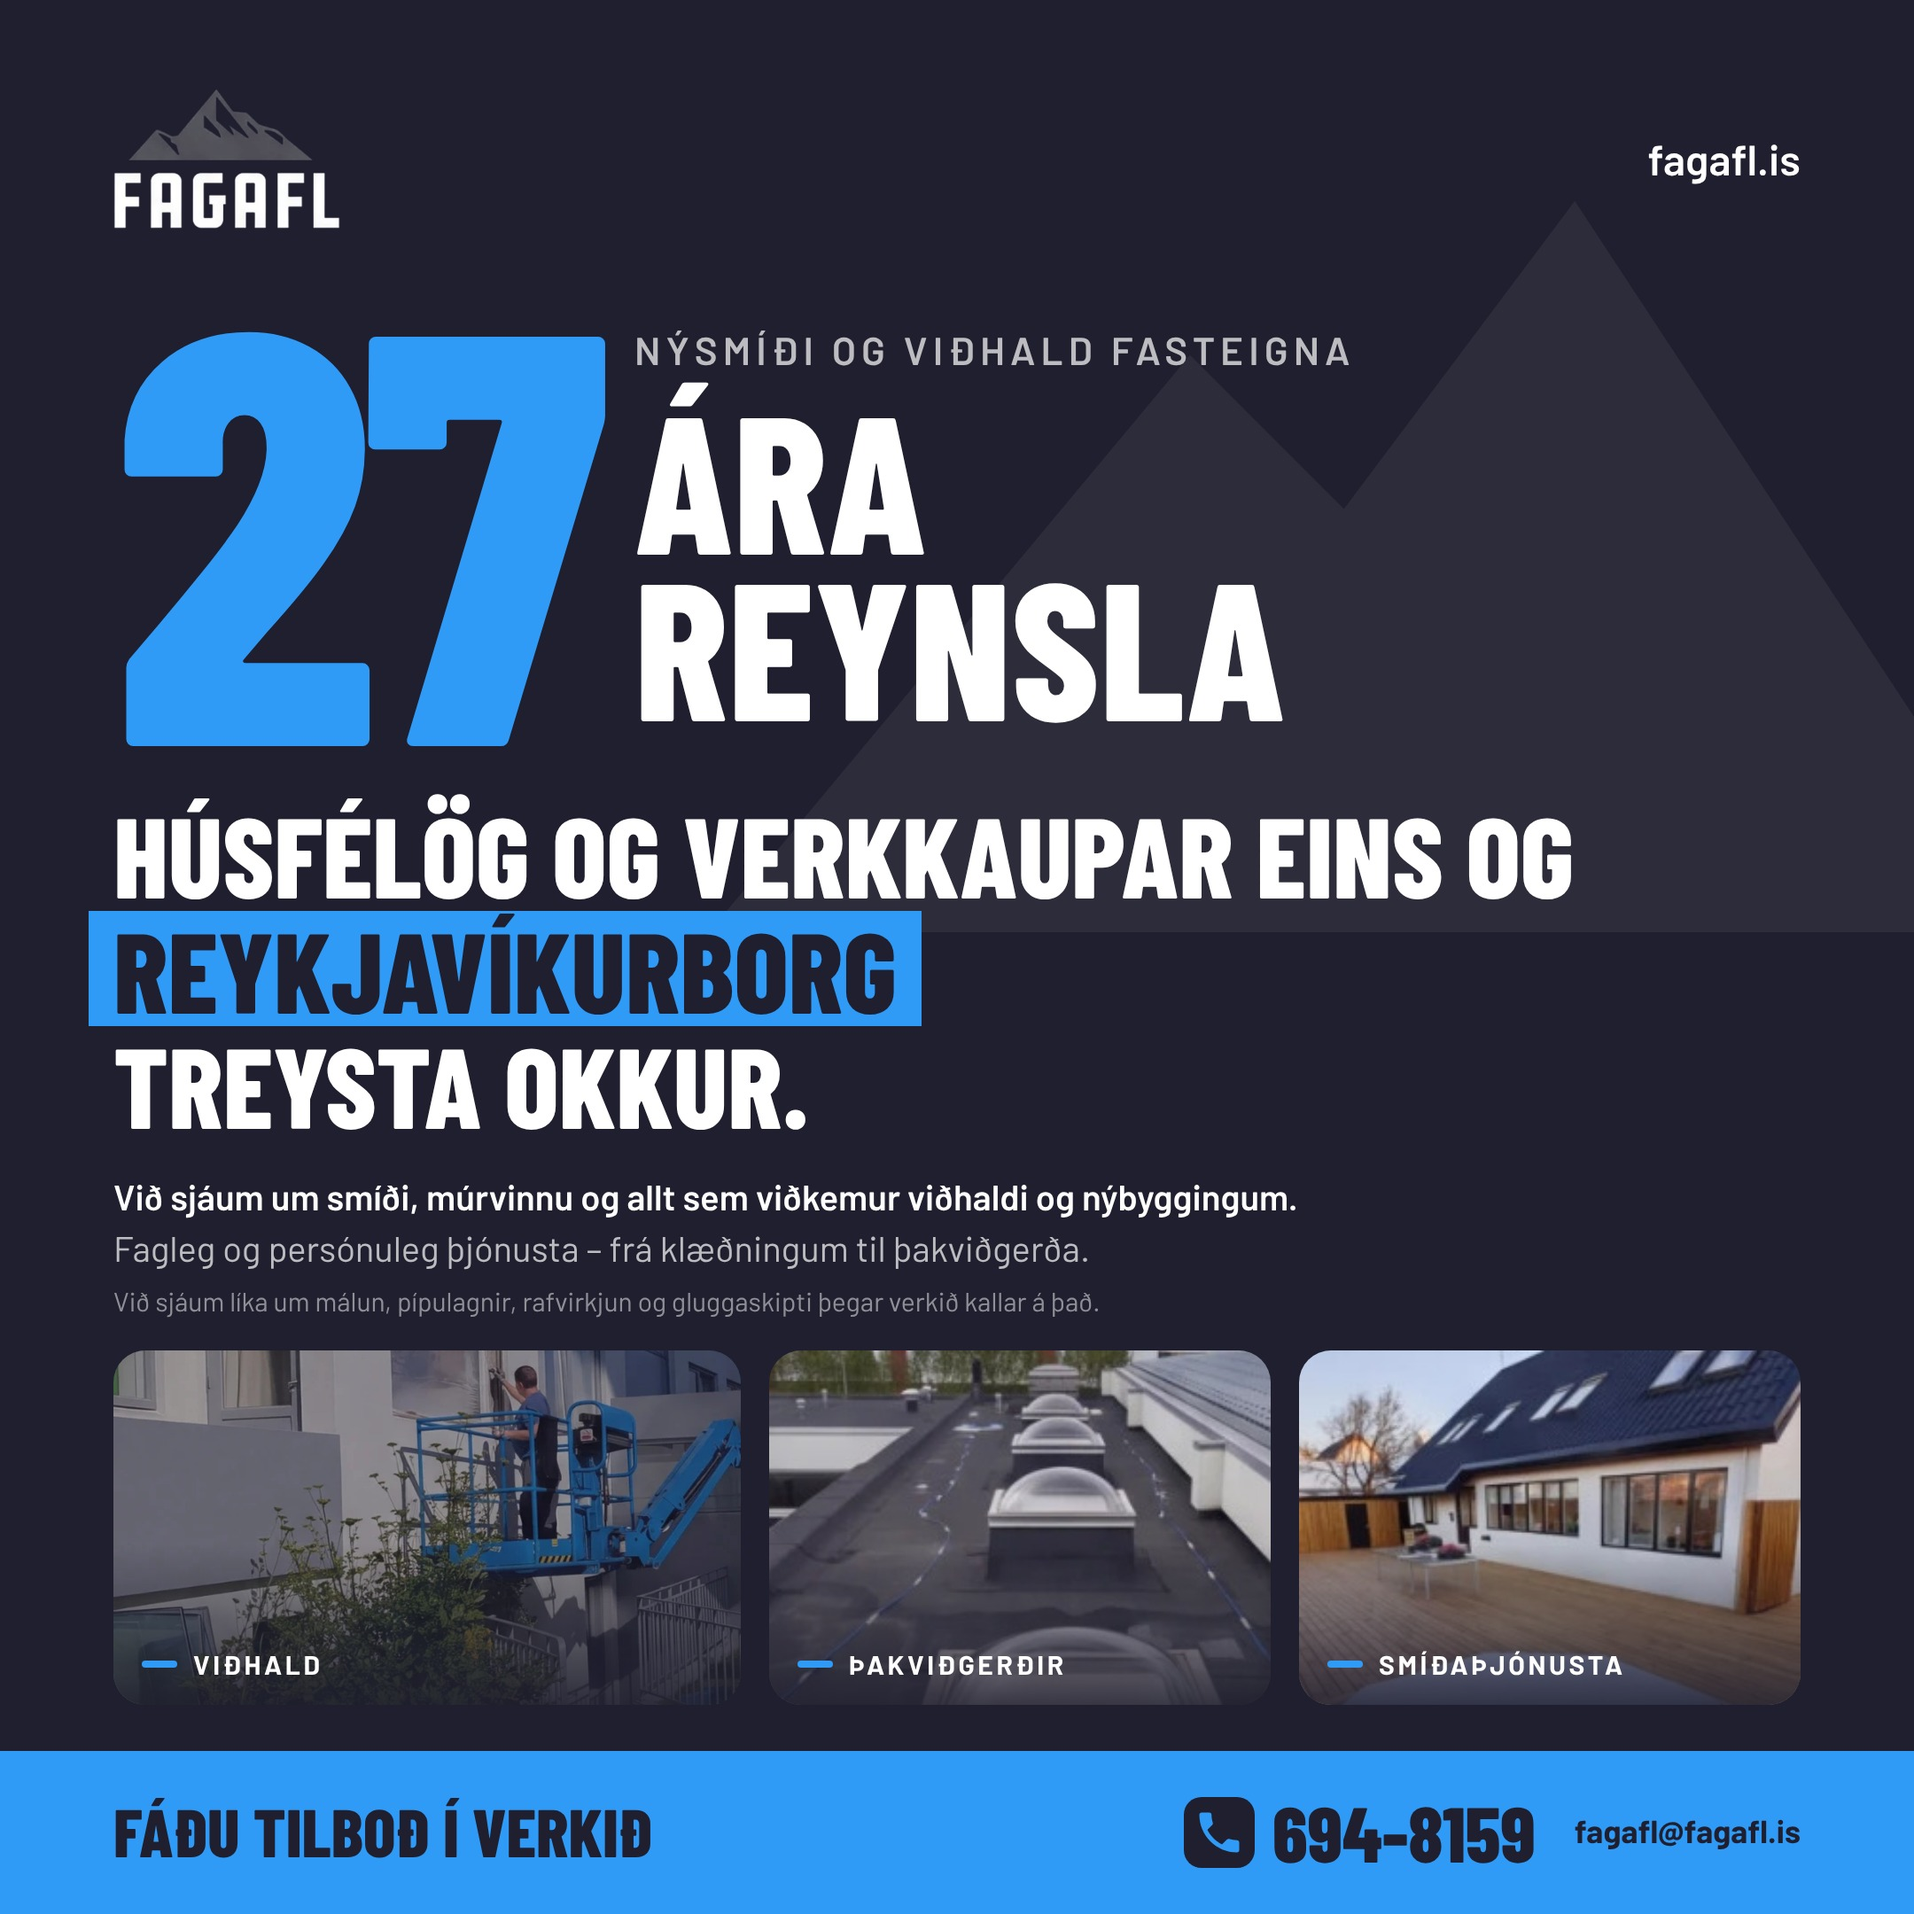
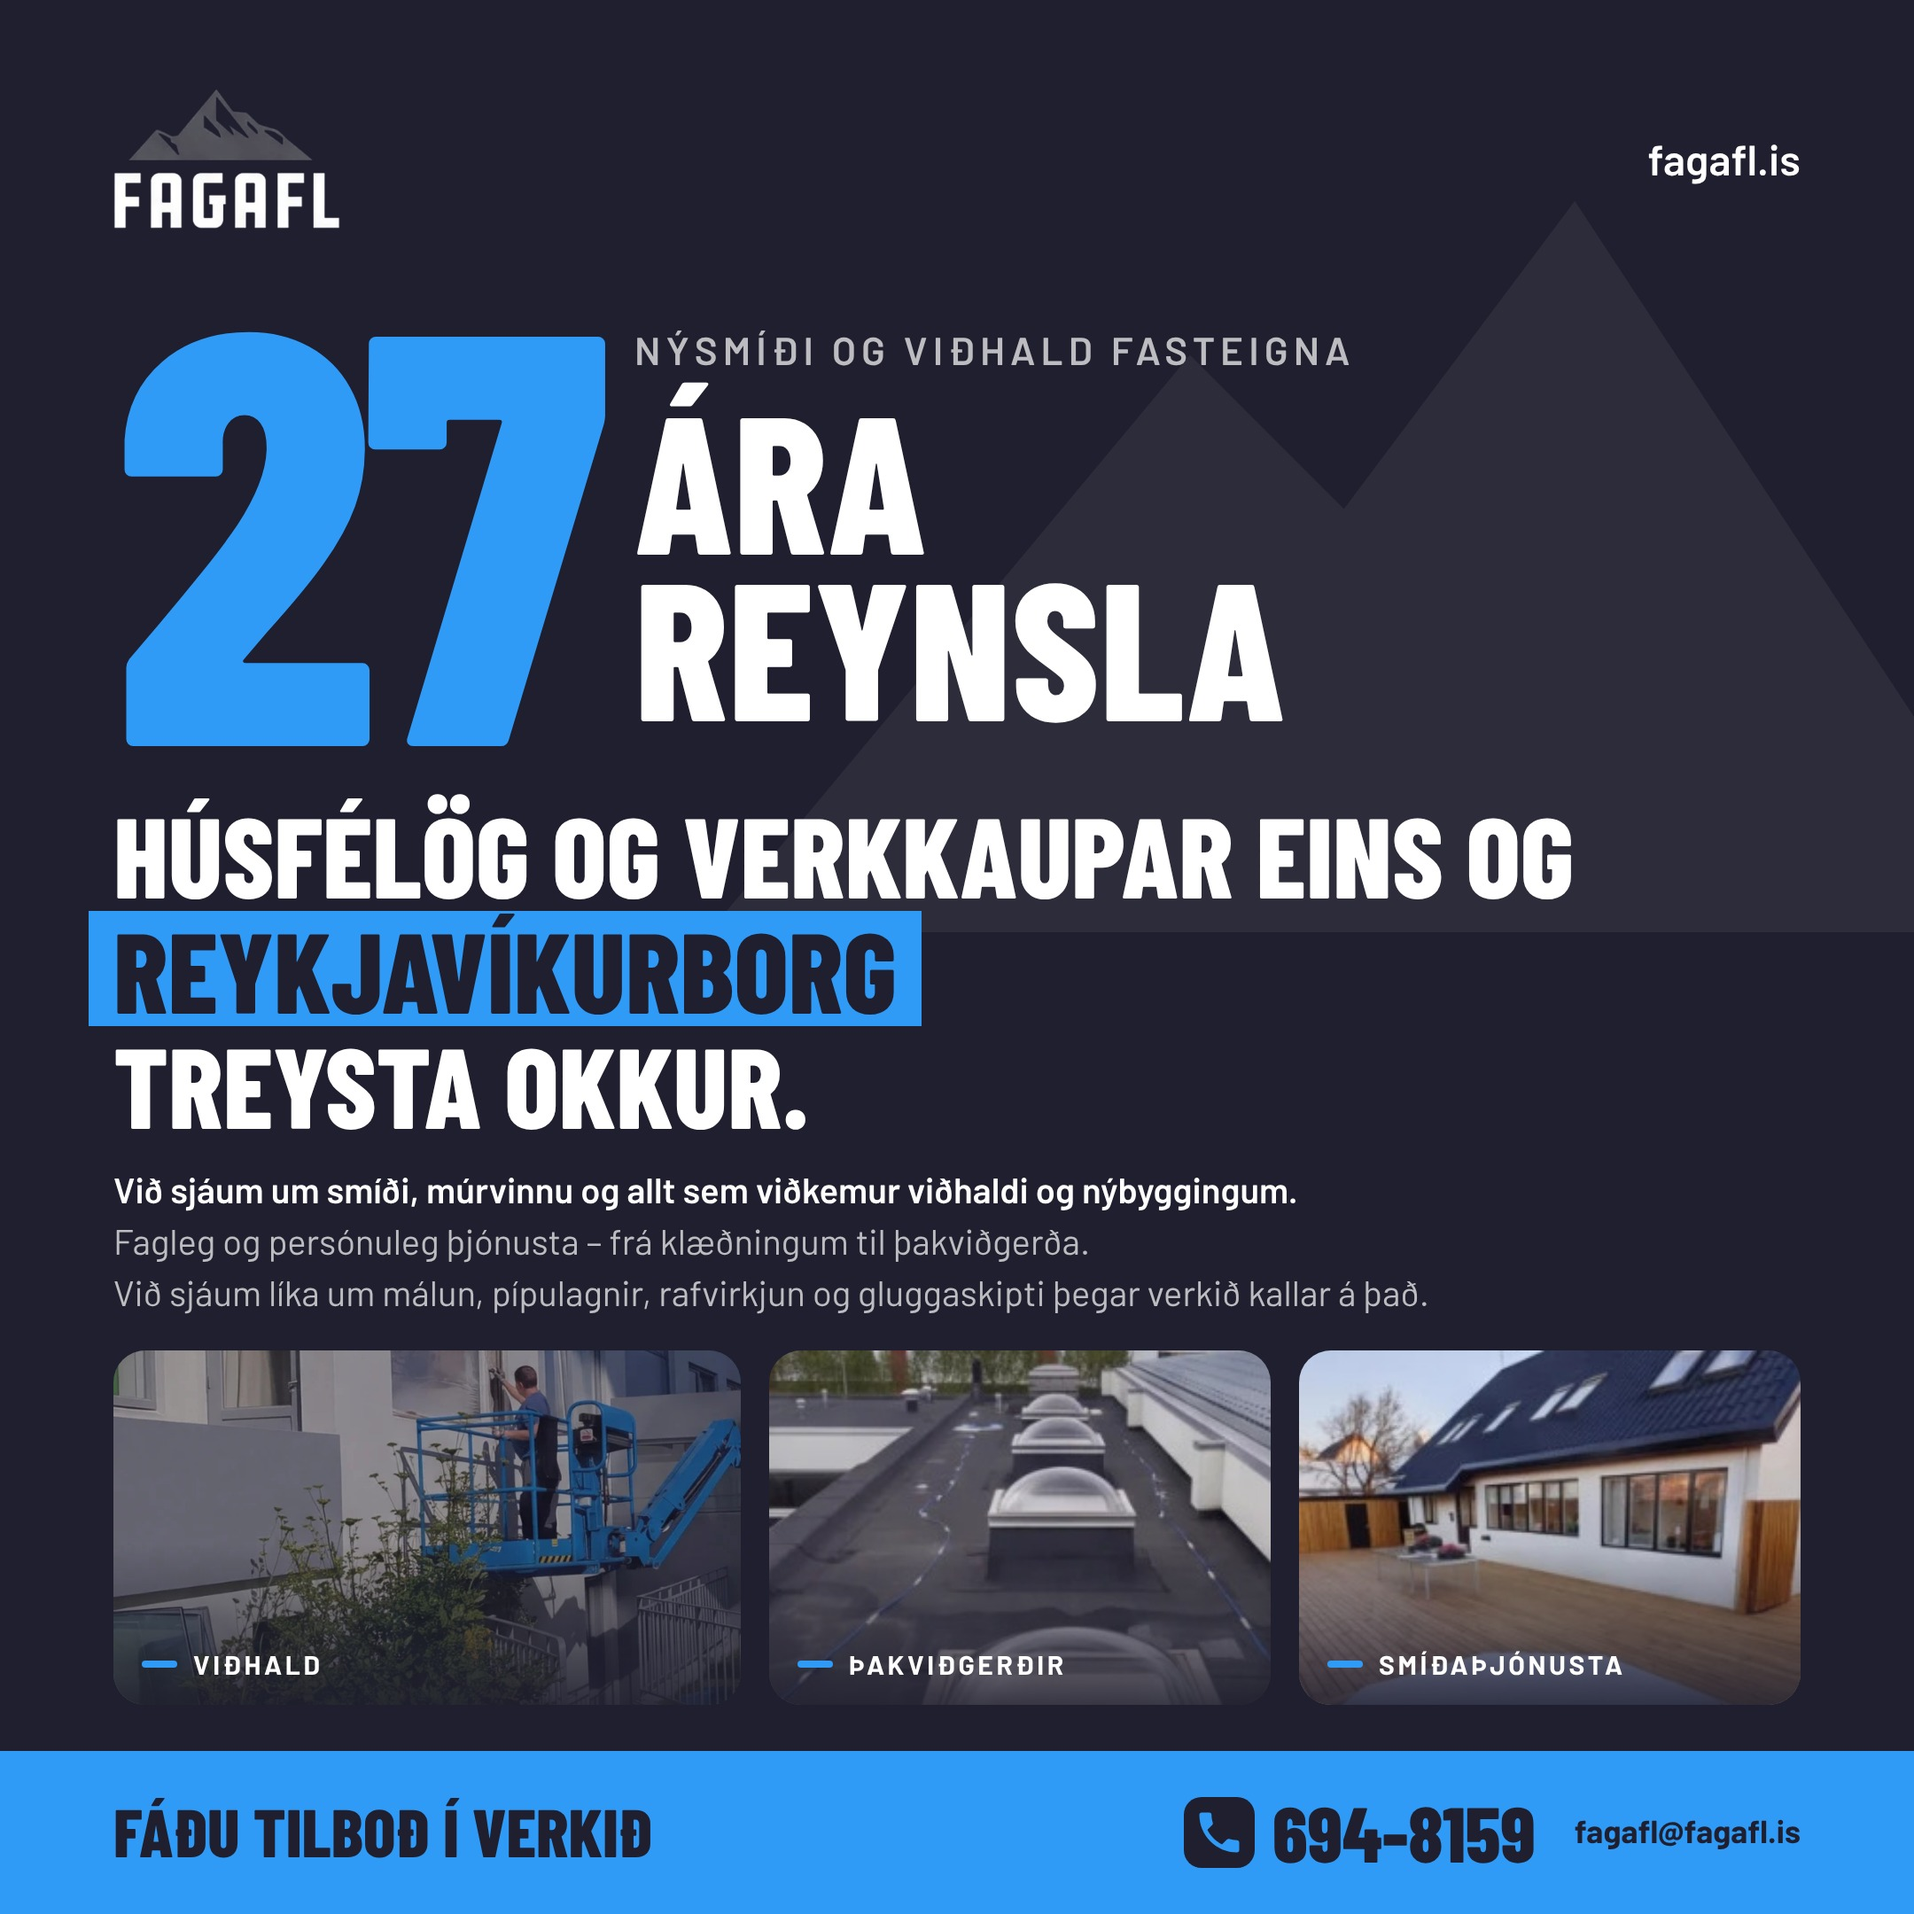
Fagafl auglýsing: þriðja línan í sömu stærð og undirtextinn
Claude-Session: https://claude.ai/code/session_01JAXd2iUkkgxGEMg3nH9dLE

Changed region(s): [[0.062, 0.6204, 0.7444, 0.6824]]

diff --git a/auglysingar/fagafl/src/fagafl.html b/auglysingar/fagafl/src/fagafl.html
@@ -22,9 +22,9 @@ html,body{width:1080px;height:1080px;background:var(--dokkt)}
 .ara{left:358px;top:203px;font-family:"Barlow Condensed";font-weight:800;font-size:110px;line-height:94px;padding-top:19px;text-transform:uppercase;white-space:nowrap}
 .fyrirsogn{left:64px;top:449px;font-family:"Barlow Condensed";font-weight:800;font-size:64px;line-height:65px;text-transform:uppercase;white-space:nowrap}
 .fyrirsogn mark{display:inline-block;margin-left:-14px;padding:0 14px;background:var(--blatt);color:var(--dokkt)}
-.texti{left:64px;top:660.5px;width:800px;font-size:20px;line-height:29px;color:var(--dauft)}
+.texti{left:64px;top:657px;width:800px;font-size:20px;line-height:29px;color:var(--dauft)}
 .texti strong{display:block;font-weight:600;color:var(--hvitt)}
-.texti small{display:block;margin-top:5px;font-size:15px;line-height:20px;color:rgba(255,255,255,.5)}
+.texti small{display:block;font-size:inherit}
 .myndir{left:64px;top:762px;width:952px;height:200px;display:flex;gap:16px}
 .mynd{position:relative;flex:283 1 0;height:200px;border-radius:18px;overflow:hidden;background:#2A2B3D}
 .mynd:first-child{flex:354 1 0}

diff --git a/auglysingar/fagafl/README.md b/auglysingar/fagafl/README.md
@@ -6,11 +6,11 @@
 
 - Fyrirsögn: „Húsfélög og verkkaupar eins og Reykjavíkurborg treysta okkur.“ (Garðabær tekinn út, húsfélög bætt við.)
 - Ný lína: „Við sjáum um smíði, múrvinnu og allt sem viðkemur viðhaldi og nýbyggingum.“
-- Smátt letur: „Við sjáum líka um málun, pípulagnir, rafvirkjun og gluggaskipti þegar verkið kallar á það.“
+- Þriðja lína, sama stærð og undirtextinn: „Við sjáum líka um málun, pípulagnir, rafvirkjun og gluggaskipti þegar verkið kallar á það.“
 
 ## Þjónusta sem aðrir eiga í SVIF-bæklingnum
 
-Þessi þjónusta er aðeins nefnd í smáa letrinu, því annað fyrirtæki á flokkinn:
+Þessi þjónusta er aðeins nefnd í þriðju línunni, því annað fyrirtæki á flokkinn:
 
 | Þjónusta | Flokkurinn er hjá |
 | --- | --- |
